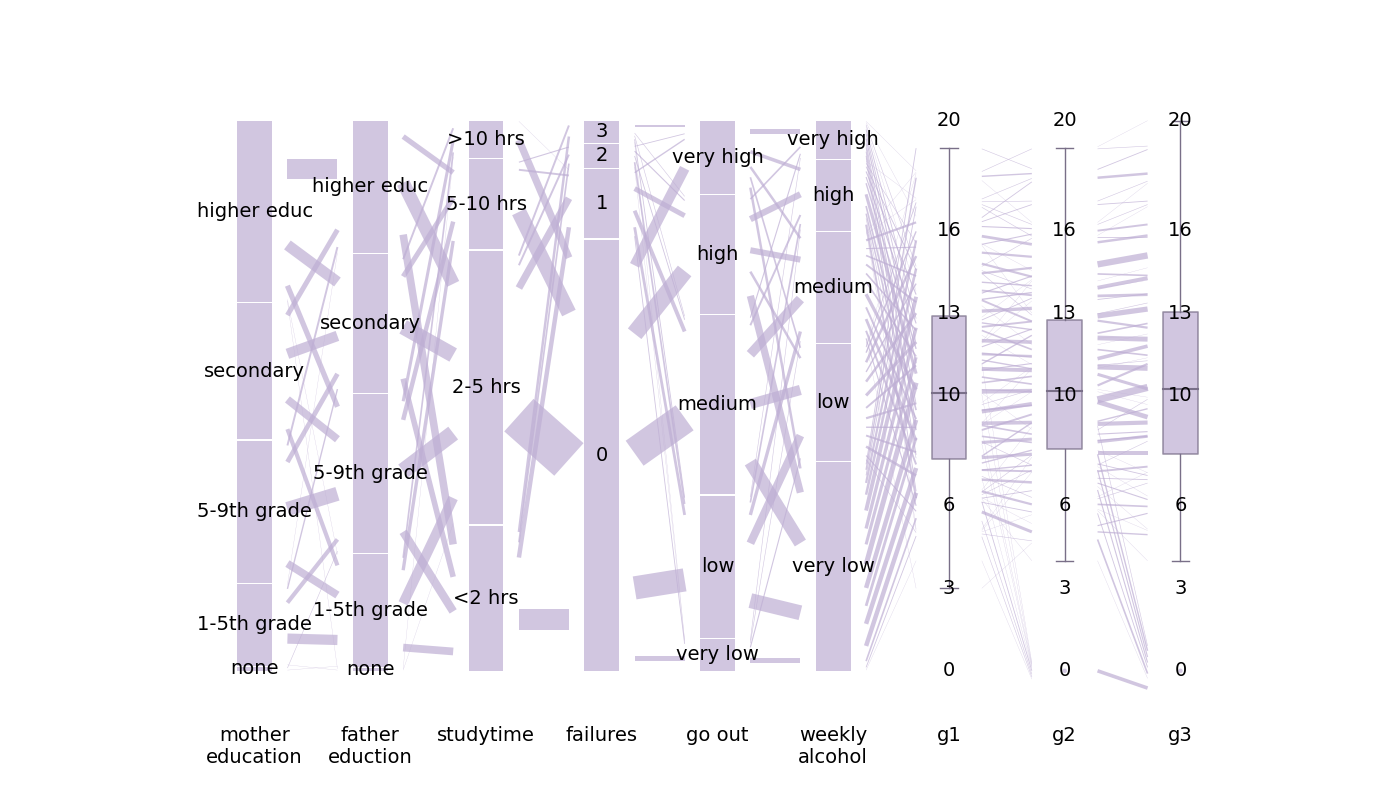
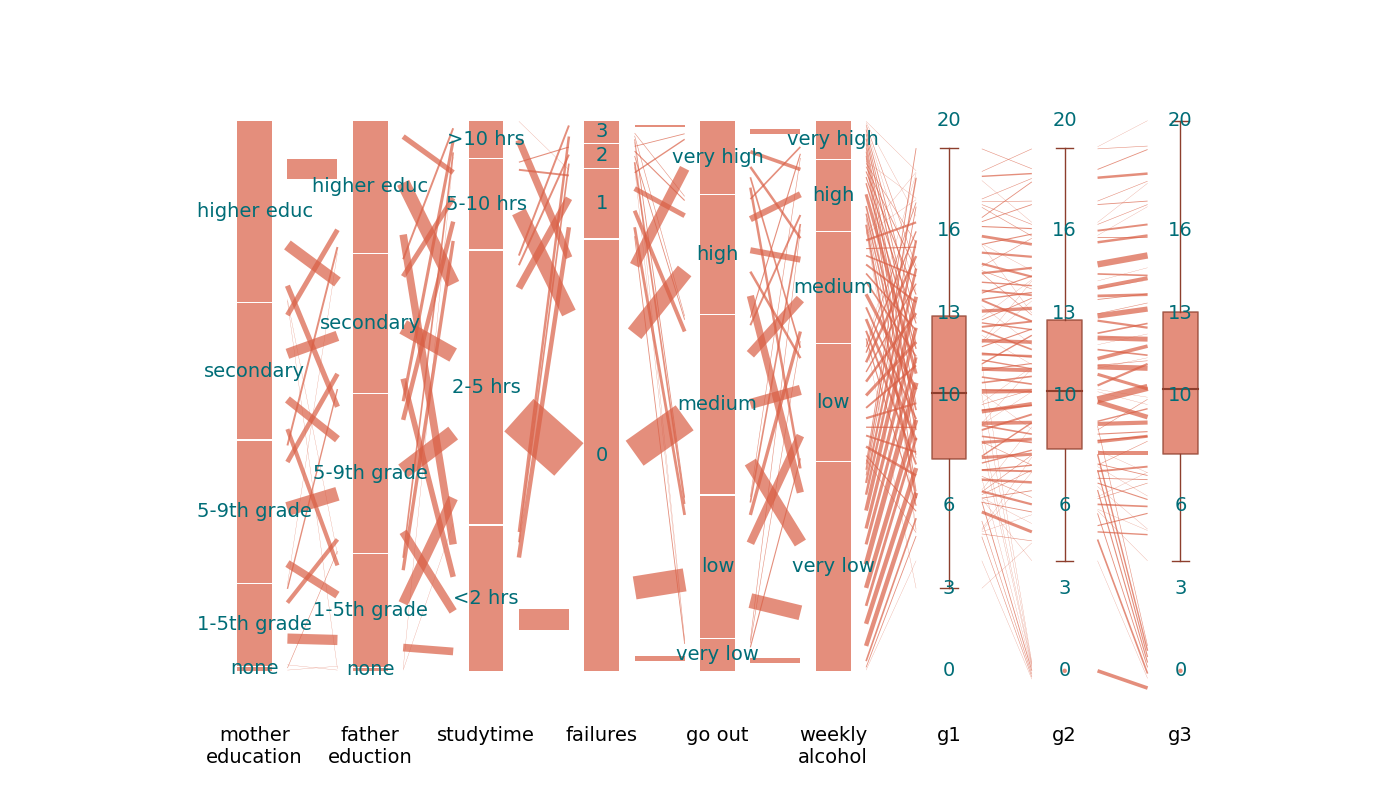
gallery changes

Changed region(s): [[0.1536, 0.125, 0.86, 0.875], [0.8293, 0.125, 0.86, 0.1562], [0.7371, 0.125, 0.7679, 0.1562]]

diff --git a/examples/gallery/08_portugal_student_labels.py b/examples/gallery/08_portugal_student_labels.py
@@ -58,7 +58,7 @@ display_names = {
     "walc": "weekly\nalcohol",
 }
 
-label_options = {var: {"fontsize": 14} for var in plot_vars}
+label_options = {var: {"fontsize": 14, "color": "#006D77"} for var in plot_vars}
 
 hammock = hammock_plot.Hammock(data_df=df)
 ax = hammock.plot(
@@ -82,8 +82,11 @@ ax = hammock.plot(
     connector_fraction=0.2,
     label=True,
     label_options=label_options,
+    default_color="#D95F45",
 )
 
 ax.set_xticklabels([display_names.get(var, var) for var in plot_vars])
+for tick_label in ax.get_xticklabels():
+    tick_label.set_color("black")
 
 ax.get_figure().savefig(gallery_image_path("portugal_student_labels.png"))

diff --git a/examples/gallery/04_penguins_mixed_displays.py b/examples/gallery/04_penguins_mixed_displays.py
@@ -1,6 +1,6 @@
 """
-Highlighting and stacked barcharts
-==================================
+Stacked barcharts and more
+==========================
 
 Large categorical bars combine to stacked barcharts. Here, we specified a different color for the the connectors.
 """